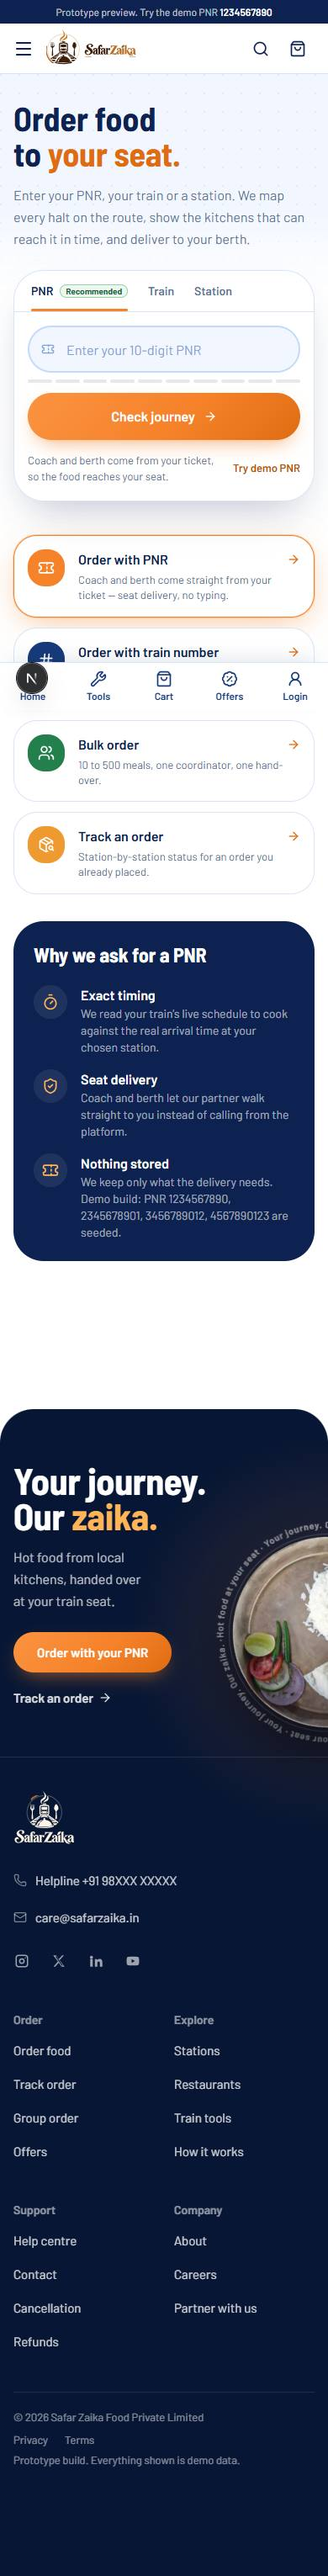
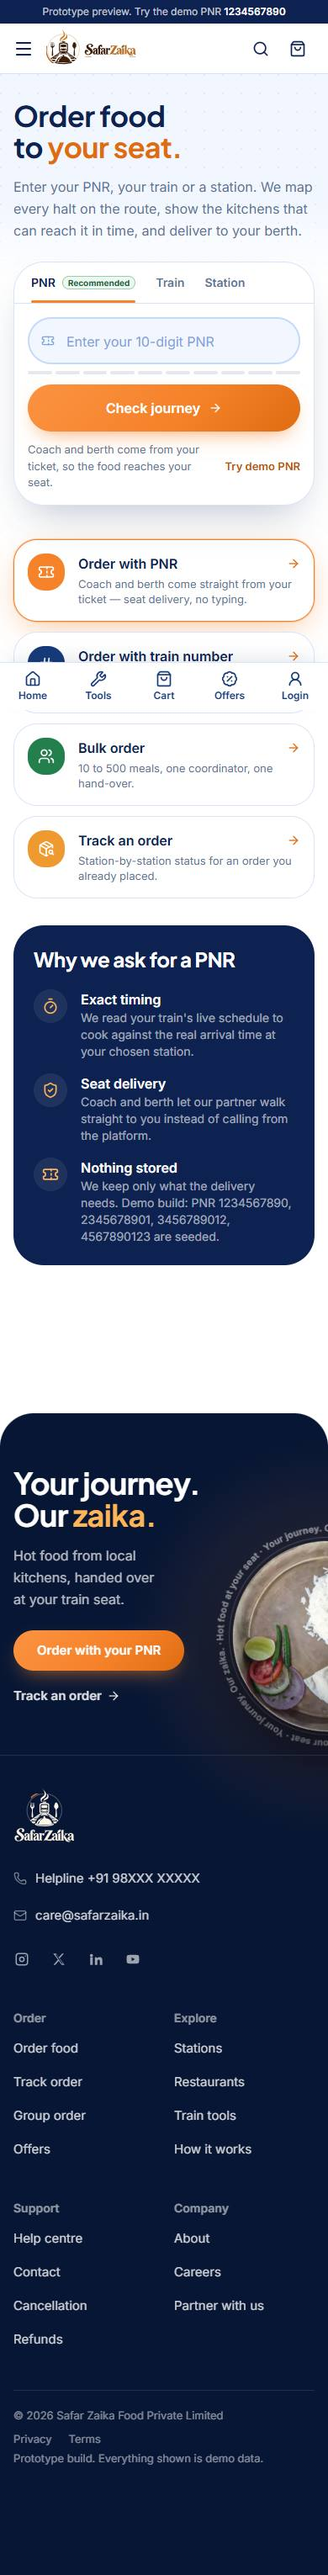
New type: Plus Jakarta Sans for headings, Inter for the interface
Replaces Barlow Semi Condensed 800 / Barlow, which the client read as too bold
to look professional. Headings are 700 at -0.015em tracking and 1.08 leading.

The new face sets about a fifth wider than the condensed one, so every display
size came down to match: the hero title clamps and block height, SectionHeading,
PageHeader, the footer headline, the CTA bands, the restaurant and modal
headings, and the 404. Nothing overflows at phone, tablet or desktop.

diff --git a/src/app/layout.tsx b/src/app/layout.tsx
@@ -1,5 +1,5 @@
 import type { Metadata, Viewport } from "next";
-import { Barlow, Barlow_Semi_Condensed } from "next/font/google";
+import { Inter, Plus_Jakarta_Sans } from "next/font/google";
 import "./globals.css";
 import { Providers } from "@/components/providers/Providers";
 import { Navbar } from "@/components/layout/Navbar";
@@ -7,10 +7,11 @@ import { Footer } from "@/components/layout/Footer";
 import { StickyCartBar } from "@/components/cart/StickyCartBar";
 import { BottomTabBar } from "@/components/layout/BottomTabBar";
 
-// The logo's tagline is set in Bahnschrift (a DIN-style railway signage face).
-// Barlow is the closest open superfamily: Semi Condensed for headings, regular for UI.
-const barlow = Barlow({ subsets: ["latin"], weight: ["400", "500", "600", "700"], variable: "--font-barlow", display: "swap" });
-const barlowSemi = Barlow_Semi_Condensed({ subsets: ["latin"], weight: ["600", "700", "800"], variable: "--font-barlow-semi", display: "swap" });
+// Headings in Plus Jakarta Sans, interface text in Inter. The condensed 800-weight face used before
+// read as shouty rather than professional (client, 3 Oct 2026). The logo keeps its own Bahnschrift
+// tagline as artwork — nothing on the page tries to imitate it.
+const inter = Inter({ subsets: ["latin"], weight: ["400", "500", "600", "700"], variable: "--font-ui", display: "swap" });
+const jakarta = Plus_Jakarta_Sans({ subsets: ["latin"], weight: ["600", "700"], variable: "--font-head", display: "swap" });
 
 const siteUrl = process.env.NEXT_PUBLIC_SITE_URL ?? "http://localhost:3000";
 
@@ -48,7 +49,7 @@ export const viewport: Viewport = {
 
 export default function RootLayout({ children }: { children: React.ReactNode }) {
   return (
-    <html lang="en-IN" className={`${barlow.variable} ${barlowSemi.variable} h-full`}>
+    <html lang="en-IN" className={`${inter.variable} ${jakarta.variable} h-full`}>
       <body className="flex min-h-full flex-col">
         <a
           href="#main"

diff --git a/src/components/hero/Hero.tsx b/src/components/hero/Hero.tsx
@@ -30,8 +30,8 @@ const heroVars =
   "[--hero-nav:88px] [--hero-room:calc(100svh_-_56px)] [--hero-block:42rem] " +
   "sm:[--hero-block:36rem] " +
   "md:[--hero-h:clamp(720px,calc(100svh_-_56px),max(960px,43vw))] md:[--hero-room:calc(var(--hero-h)_*_0.885)] md:[--hero-block:34rem] " +
-  "lg:[--hero-h:clamp(720px,100svh,max(960px,43vw))] lg:[--hero-nav:100px] lg:[--hero-title:clamp(3rem,calc(12svh_-_2.5rem),3.5rem)] lg:[--hero-block:calc(25.5rem_+_1.92_*_var(--hero-title))] " +
-  "xl:[--hero-title:clamp(3.25rem,calc(12svh_-_2.5rem),4.25rem)]";
+  "lg:[--hero-h:clamp(720px,100svh,max(960px,43vw))] lg:[--hero-nav:100px] lg:[--hero-title:clamp(2.5rem,calc(10svh_-_2rem),3rem)] lg:[--hero-block:calc(25.5rem_+_2.12_*_var(--hero-title))] " +
+  "xl:[--hero-title:clamp(2.75rem,calc(10svh_-_2rem),3.5rem)]";
 
 const HeroScene = dynamic(() => import("./HeroScene"), { ssr: false, loading: () => null });
 
@@ -156,7 +156,7 @@ export function Hero() {
 
       {/* Top padding centres the block between the navbar and the train band; it never drops below the navbar plus 12px. */}
       <div className="container-x relative flex flex-col items-center pb-24 pt-[max(calc(var(--hero-nav)_+_0.75rem),calc((var(--hero-room)_-_var(--hero-block)_+_var(--hero-nav))_/_2))] text-center md:pb-16">
-        <h1 id="hero-title" className="max-w-4xl text-balance font-display text-[2.5rem] leading-[0.96] opacity-0 sm:text-6xl lg:text-[length:var(--hero-title)]">
+        <h1 id="hero-title" className="max-w-4xl text-balance font-display text-[2.125rem] leading-[1.06] opacity-0 sm:text-[2.75rem] lg:text-[length:var(--hero-title)]">
           Hot food on your train, handed over <span className="text-gold-400">at your seat.</span>
         </h1>
         <p data-hero-anim data-hero-copy className="mt-3 max-w-3xl text-pretty text-base leading-normal text-cream-50/80 opacity-0 sm:mt-4 sm:leading-relaxed lg:max-w-4xl lg:text-[17px]">

diff --git a/src/components/ui/SectionHeading.tsx b/src/components/ui/SectionHeading.tsx
@@ -24,15 +24,16 @@ export function SectionHeading({
   as?: "h1" | "h2" | "h3";
   size?: "sm" | "md" | "lg";
 }) {
+  // Plus Jakarta Sans sets about a fifth wider than the condensed face these sizes were drawn for.
   const sizes = {
-    sm: "text-[1.75rem] sm:text-3xl",
-    md: "text-[2.25rem] sm:text-5xl lg:text-[3.25rem]",
-    lg: "text-[2.6rem] sm:text-6xl lg:text-[4.25rem]",
+    sm: "text-2xl sm:text-[1.75rem]",
+    md: "text-[1.875rem] sm:text-[2.5rem] lg:text-[2.75rem]",
+    lg: "text-[2.125rem] sm:text-5xl lg:text-[3.5rem]",
   };
   return (
     <div className={cn("flex flex-col gap-5 md:flex-row md:items-end md:justify-between", align === "center" && "md:flex-col md:items-center md:text-center", className)}>
       <div className={cn("max-w-2xl", align === "center" && "mx-auto text-center")}>
-        <Tag className={cn("text-balance font-display leading-[0.95]", sizes[size], dark ? "text-cream-50" : "text-cocoa-900")}>{title}</Tag>
+        <Tag className={cn("text-balance font-display leading-[1.08]", sizes[size], dark ? "text-cream-50" : "text-cocoa-900")}>{title}</Tag>
         {description && <p className={cn("mt-3 max-w-xl text-pretty text-base leading-relaxed sm:text-lg", align === "center" && "mx-auto", dark ? "text-cream-50/70" : "text-muted")}>{description}</p>}
       </div>
       {action && <div className="shrink-0">{action}</div>}

diff --git a/src/components/layout/Footer.tsx b/src/components/layout/Footer.tsx
@@ -112,7 +112,7 @@ export function Footer() {
       <div className="relative">
         <Plate />
         <Reveal variant="letters" className="container-x relative pb-12 pt-16 lg:pb-14 lg:pt-20">
-          <h2 className="text-[clamp(2.75rem,min(8vw,11vh),6rem)] leading-[0.94]">
+          <h2 className="text-[clamp(2.25rem,min(6.5vw,9vh),4.75rem)] leading-[1.06]">
             <span className="block">Your journey.</span>
             <span className="block">
               Our <span className="text-gold-400">zaika.</span>
@@ -133,7 +133,7 @@ export function Footer() {
 
       {/* Site map: brand column, then the four link groups. lg:pr-* keeps the plate off the links. */}
       <div className="container-x relative border-t border-cream-50/10 pb-[calc(env(safe-area-inset-bottom)+8rem)] pt-10 md:pb-[calc(env(safe-area-inset-bottom)+4rem)] lg:pb-8 lg:pr-56 xl:pr-64">
-        <div className="grid grid-cols-2 gap-x-6 gap-y-10 md:grid-cols-4 lg:grid-cols-[minmax(13rem,1fr)_repeat(4,minmax(0,0.8fr))] lg:gap-x-8">
+        <div className="grid grid-cols-2 gap-x-6 gap-y-10 md:grid-cols-4 lg:grid-cols-[minmax(15rem,1fr)_repeat(4,minmax(0,0.78fr))] lg:gap-x-8">
           <div className="col-span-2 md:col-span-4 lg:col-span-1">
             <Logo variant="stacked-white" className="h-16" />
             <ul className="mt-4 space-y-1">

diff --git a/src/app/globals.css b/src/app/globals.css
@@ -114,9 +114,9 @@
 }
 
 @theme inline {
-  /* Display = Barlow Semi Condensed, UI = Barlow */
-  --font-display: var(--font-barlow-semi), "Arial Narrow", ui-sans-serif, system-ui, sans-serif;
-  --font-sans: var(--font-barlow), ui-sans-serif, system-ui, sans-serif;
+  /* Display = Plus Jakarta Sans, UI = Inter */
+  --font-display: var(--font-head), ui-sans-serif, system-ui, sans-serif;
+  --font-sans: var(--font-ui), ui-sans-serif, system-ui, sans-serif;
 }
 
 /* z-index scale */
@@ -138,12 +138,12 @@
   body {
     @apply bg-cream-50 text-cocoa-900 font-sans antialiased;
   }
-  /* Headings: one voice. 700 not 800 — the heavier cut read as shouty (client, 3 Oct 2026). */
+  /* Headings: one voice. 700 not 800, and tracked in a little — the old condensed 800 read as shouty. */
   h1, h2, h3, .font-display {
     font-family: var(--font-display);
     font-weight: 700;
-    letter-spacing: -0.005em;
-    line-height: 1.04;
+    letter-spacing: -0.015em;
+    line-height: 1.08;
   }
   ::selection {
     background: var(--color-cream-300);

diff --git a/src/components/layout/PageHeader.tsx b/src/components/layout/PageHeader.tsx
@@ -29,7 +29,7 @@ export function PageHeader({
       <div className="container-x relative">
         <div className="flex flex-col gap-6 md:flex-row md:items-end md:justify-between">
           <div className="max-w-3xl">
-            <h1 className={cn("text-balance font-display leading-[1.02]", compact ? "text-[2.25rem] sm:text-[2.75rem] lg:text-5xl" : "text-[2.5rem] sm:text-5xl lg:text-6xl")}>{title}</h1>
+            <h1 className={cn("text-balance font-display leading-[1.08]", compact ? "text-[1.875rem] sm:text-[2.25rem] lg:text-[2.5rem]" : "text-[2.125rem] sm:text-[2.5rem] lg:text-[3rem]")}>{title}</h1>
             {description && <p className={cn("mt-4 max-w-2xl text-pretty text-base leading-relaxed sm:text-lg", dark ? "text-cream-50/70" : "text-muted")}>{description}</p>}
           </div>
           {actions && <div className="flex shrink-0 flex-wrap gap-3">{actions}</div>}

diff --git a/src/app/not-found.tsx b/src/app/not-found.tsx
@@ -12,7 +12,7 @@ export default function NotFound() {
         <span aria-hidden className="absolute inset-x-[-4rem] bottom-[14%] border-t-2 border-dashed border-cocoa-900/20" />
         <TrainIcon className="relative h-16 w-auto text-cocoa-900 sm:h-20" title="A train with nowhere to stop" />
       </div>
-      <h1 className="mt-10 text-balance font-display text-[2.75rem] text-cocoa-900 sm:text-6xl">We can&apos;t find that page.</h1>
+      <h1 className="mt-10 text-balance font-display text-[2.125rem] text-cocoa-900 sm:text-[2.75rem]">We can&apos;t find that page.</h1>
       <p className="mt-5 max-w-md text-muted">The link may be old or the address mistyped. Head back home, or start your order from here.</p>
       <div className="mt-8 flex flex-wrap justify-center gap-3">
         <Button href="/" variant="outline" size="lg">

diff --git a/src/components/menu/RestaurantMenuView.tsx b/src/components/menu/RestaurantMenuView.tsx
@@ -114,7 +114,7 @@ export function RestaurantMenuView({ id }: { id: string }) {
                     <MapPin className="size-3" /> {station?.name ?? restaurant.stationCode} · {restaurant.distanceKm} km from platform
                   </Badge>
                 </div>
-                <h1 className="mt-4 font-display text-4xl font-semibold leading-[1.02] sm:text-5xl lg:text-6xl">{restaurant.name}</h1>
+                <h1 className="mt-4 font-display text-[1.875rem] font-semibold leading-[1.08] sm:text-[2.25rem] lg:text-[2.75rem]">{restaurant.name}</h1>
                 <p className="mt-2 text-cream-50/70">{restaurant.cuisines.join(" · ")}</p>
                 <div className="mt-5 flex flex-wrap items-center gap-x-6 gap-y-2 text-sm">
                   <Rating light value={restaurant.rating} count={restaurant.ratingCount} />

diff --git a/src/components/info/InfoExtras.tsx b/src/components/info/InfoExtras.tsx
@@ -53,7 +53,7 @@ export function PartnerCta() {
     <div className="relative mt-12 overflow-hidden rounded-[2.5rem] gradient-cocoa p-8 text-cream-50 sm:p-12">
       <div aria-hidden className="absolute inset-0 map-grid-dark opacity-50" />
       <div className="relative">
-        <h2 className="text-balance font-display text-4xl leading-[0.95] sm:text-5xl">
+        <h2 className="text-balance font-display text-[1.875rem] leading-[1.08] sm:text-[2.25rem]">
           Cook for every train that <span className="text-gold-400">stops nearby.</span>
         </h2>
         <p className="mt-4 max-w-md text-[15px] leading-relaxed text-cream-50/70">Register interest and we&apos;ll reach out when partner onboarding opens.</p>

diff --git a/src/components/home/CtaBand.tsx b/src/components/home/CtaBand.tsx
@@ -14,7 +14,7 @@ export function CtaBand() {
           <div aria-hidden className="absolute -bottom-32 left-1/3 size-96 rounded-full bg-cocoa-600/35 blur-3xl" />
           <div className="relative grid items-center gap-10 lg:grid-cols-2">
             <div>
-              <h2 id="cta-title" className="text-balance font-display text-4xl leading-[0.95] sm:text-5xl lg:text-6xl">
+              <h2 id="cta-title" className="text-balance font-display text-[1.875rem] leading-[1.08] sm:text-[2.25rem] lg:text-[2.75rem]">
                 Enter your PNR. Eat at your seat.
               </h2>
               <p className="mt-4 max-w-md text-[15px] leading-relaxed text-cream-50/85">

diff --git a/src/components/modals/WelcomeModal.tsx b/src/components/modals/WelcomeModal.tsx
@@ -44,7 +44,7 @@ export function WelcomeModal() {
         <div className="flex items-start gap-4 pr-10">
           <Logo variant="badge" href={null} priority className="h-16 shrink-0" />
           <div className="min-w-0">
-            <h2 className="font-display text-[1.75rem] leading-none sm:text-4xl">Where&apos;s your train headed?</h2>
+            <h2 className="font-display text-2xl leading-[1.12] sm:text-[1.75rem]">Where&apos;s your train headed?</h2>
             <p className="mt-2 text-[15px] leading-snug text-muted">Enter your PNR. Food from kitchens on your route comes to your seat.</p>
           </div>
         </div>

diff --git a/src/components/modals/LoginPageView.tsx b/src/components/modals/LoginPageView.tsx
@@ -26,7 +26,7 @@ export function LoginPageView() {
           <div aria-hidden className="absolute inset-0 map-grid-dark opacity-50" />
           <div className="relative">
             <Logo variant="badge" href={null} className="h-24 sm:h-32" />
-            <h1 className="mt-8 text-balance font-display text-4xl leading-[0.95] sm:text-5xl">
+            <h1 className="mt-8 text-balance font-display text-[1.875rem] leading-[1.08] sm:text-[2.25rem]">
               One account. <span className="text-gold-400">Every journey.</span>
             </h1>
             <ul className="mt-8 space-y-4">
